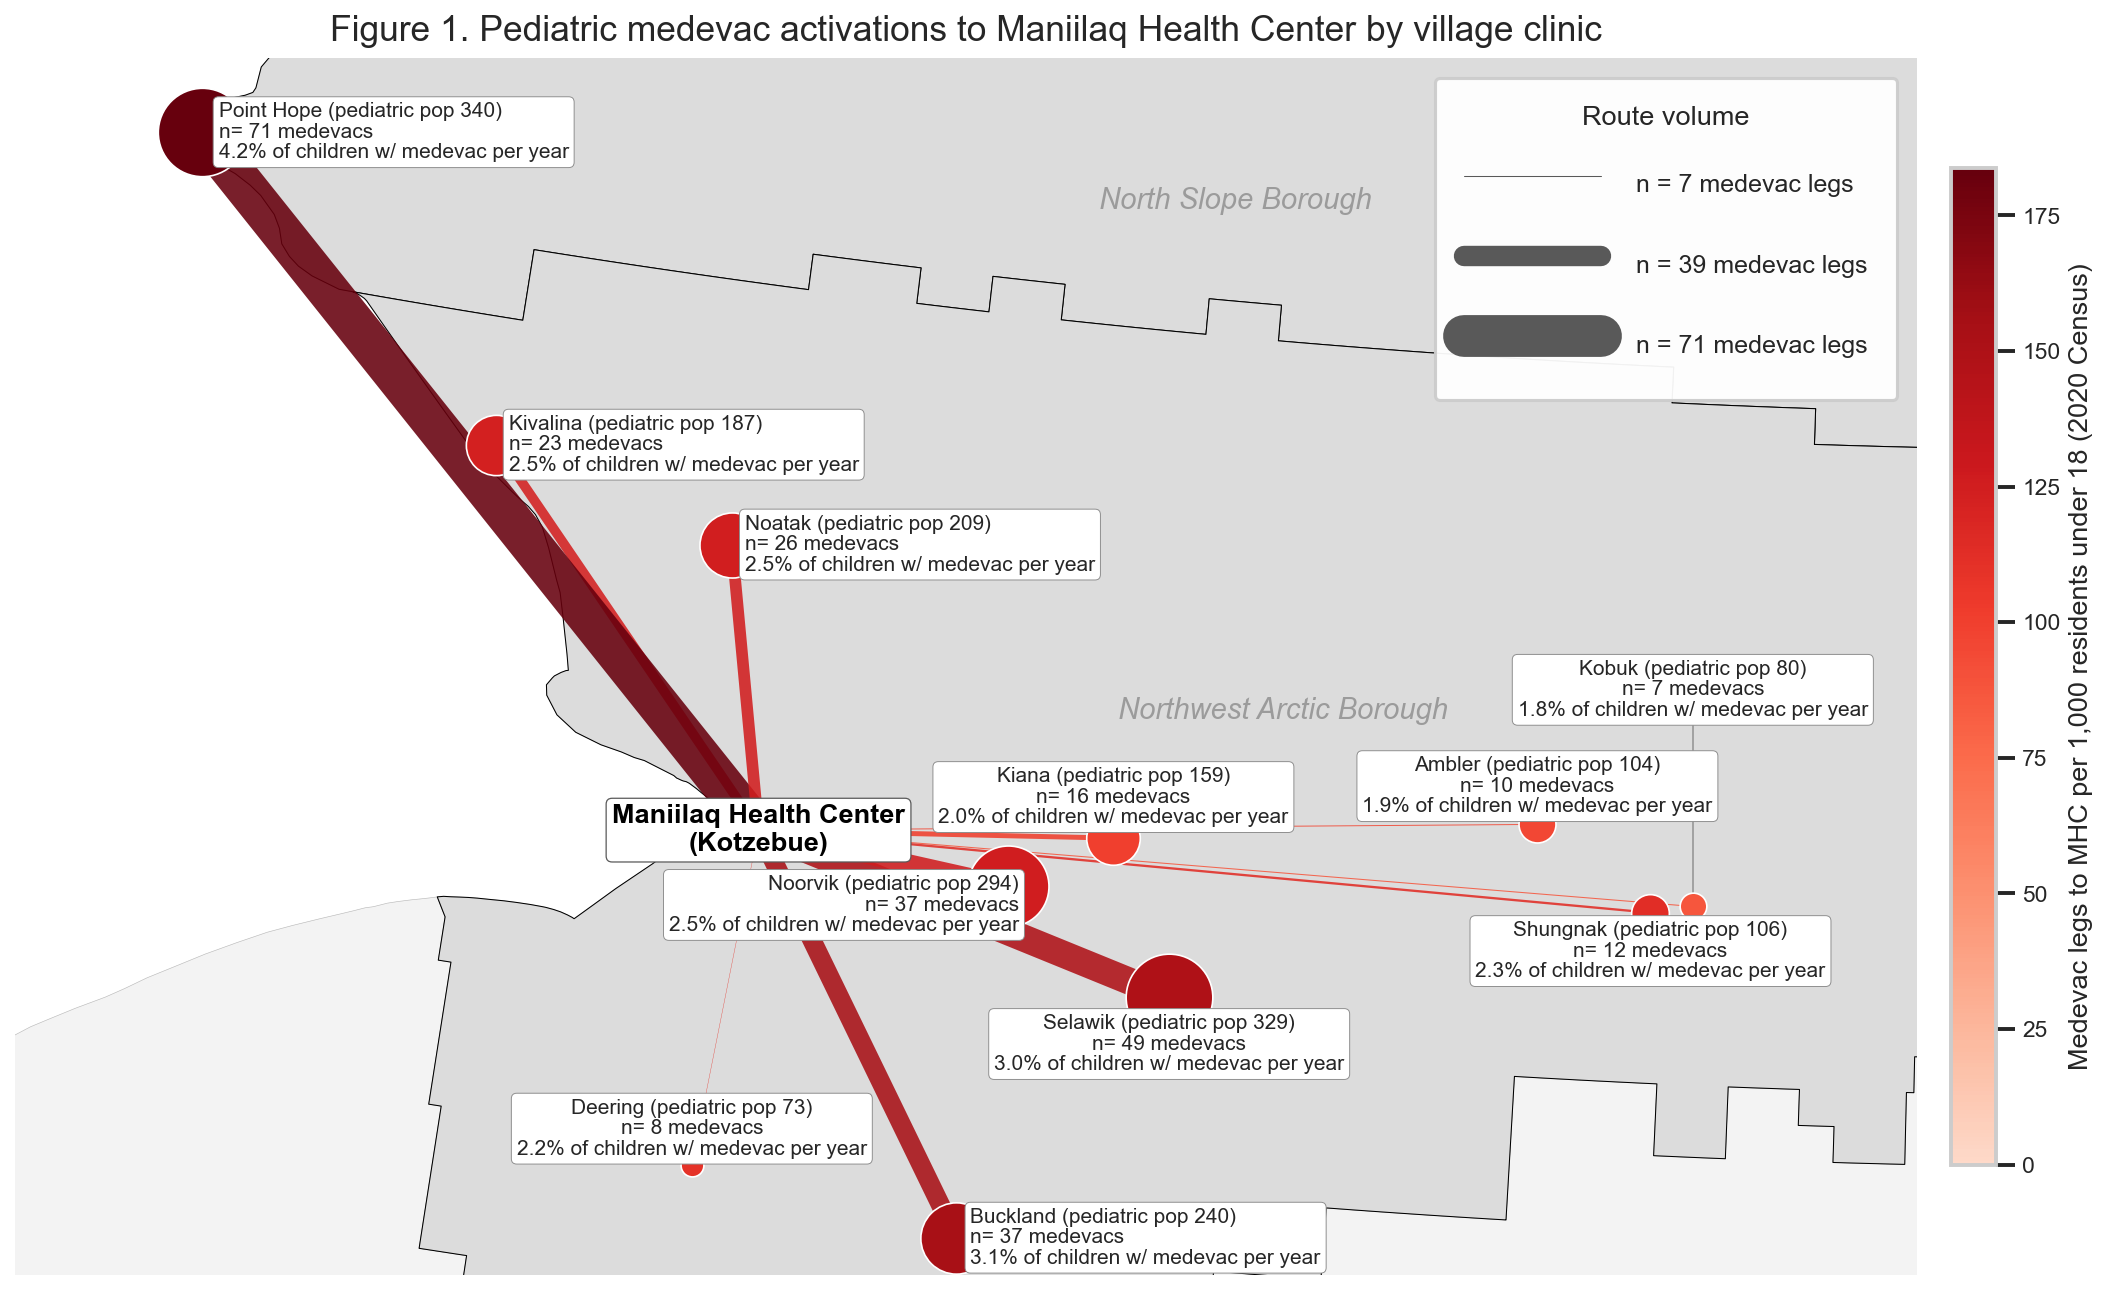
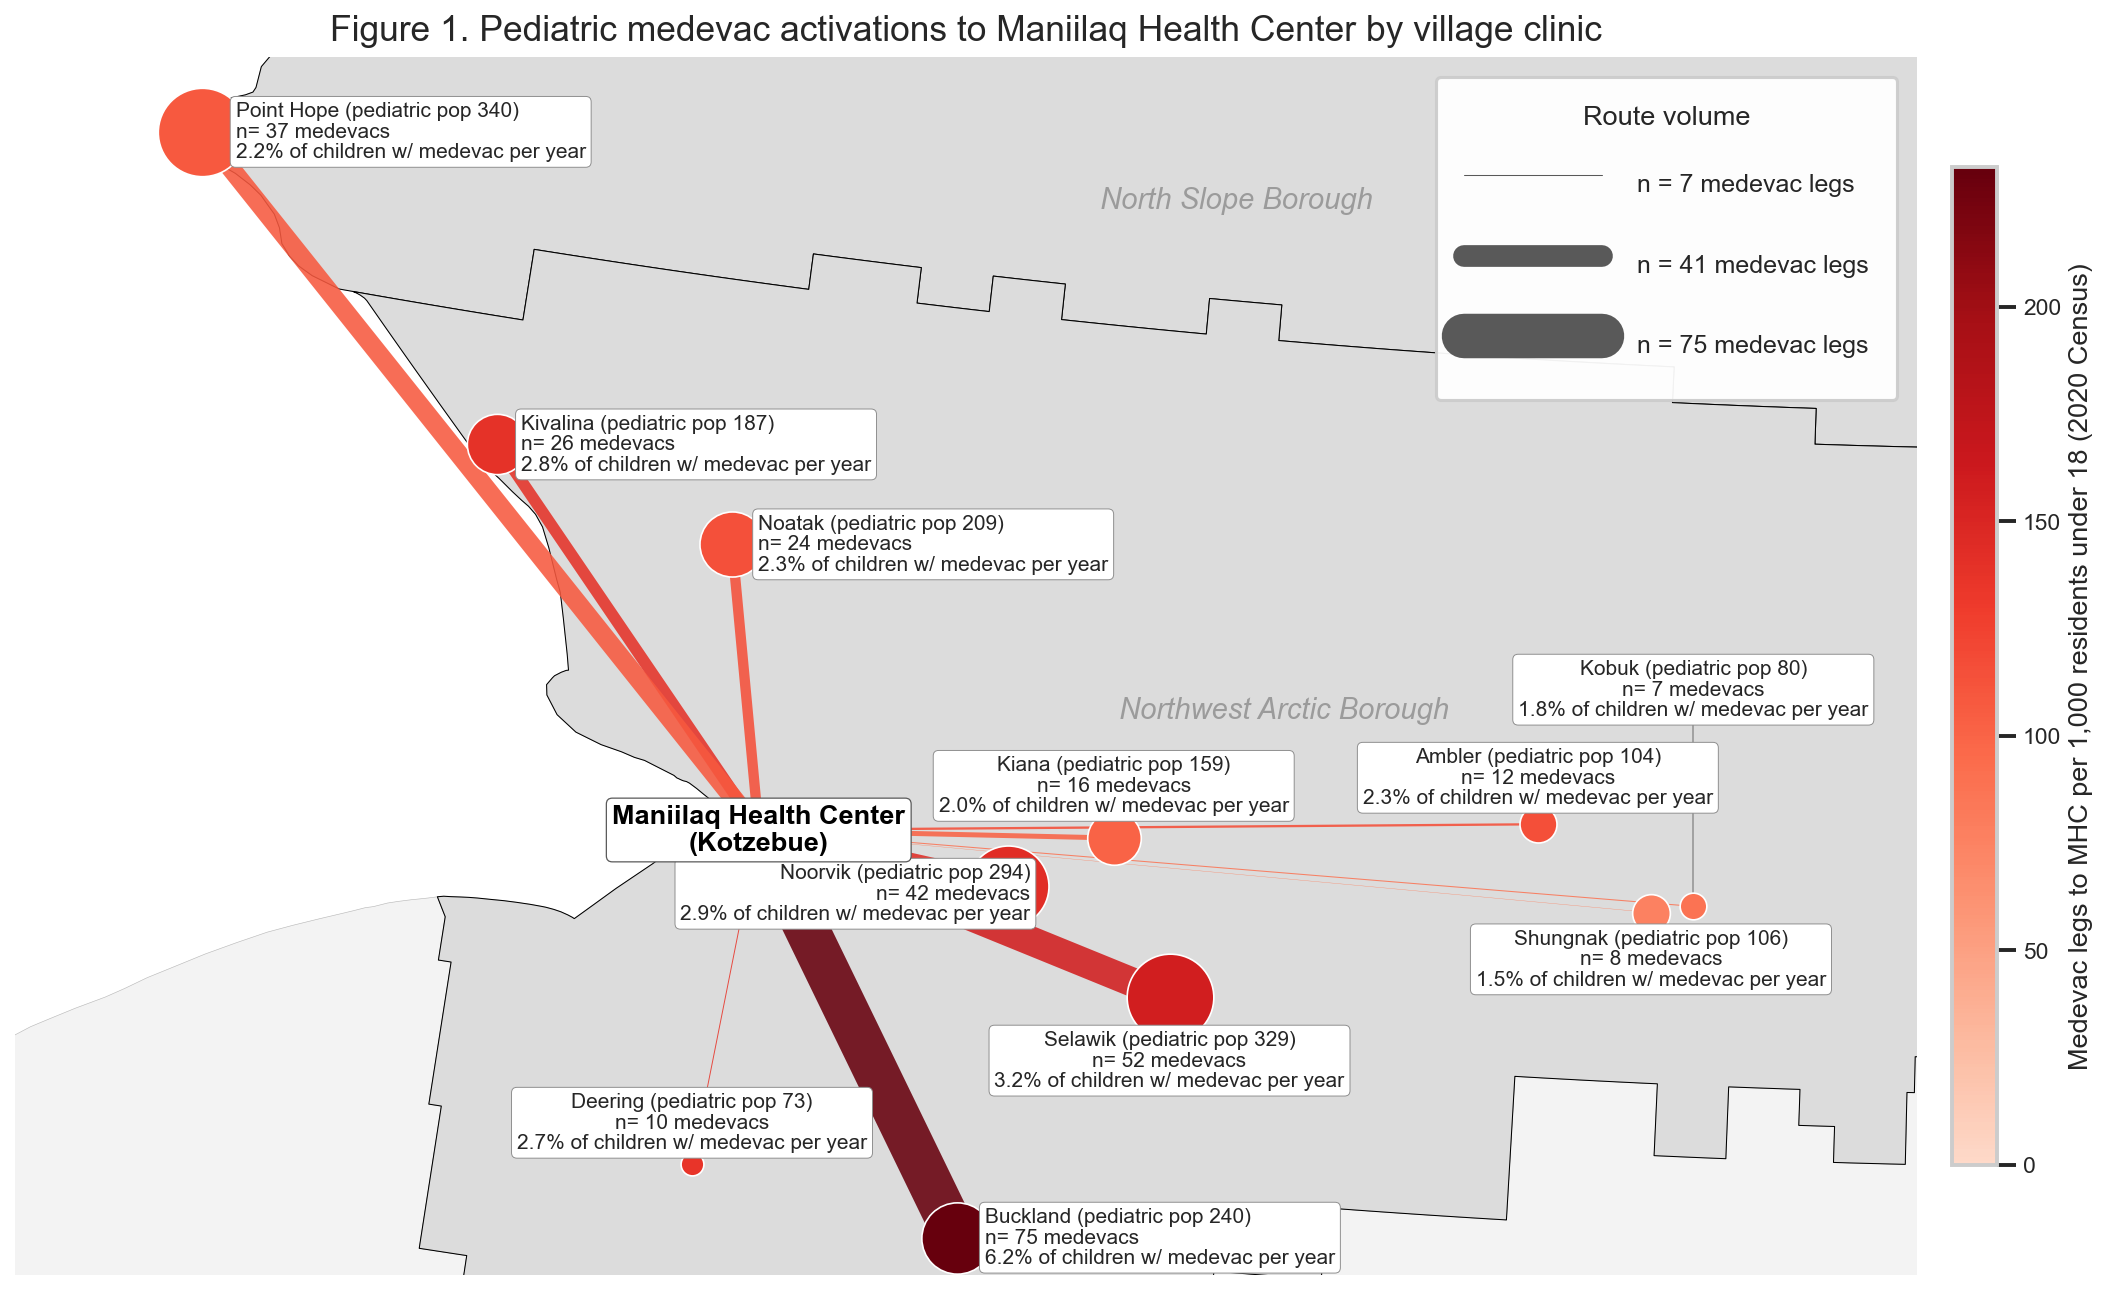
Use full 309-journey cohort for temporal figures and refine chief complaint reporting.
Report chief complaints only when overall n ≥ 10, reverse village blues so highest-volume communities are darkest, and regenerate figures with updated manuscript captions.

diff --git a/analysis/medevac_summaries.py b/analysis/medevac_summaries.py
@@ -1180,16 +1180,15 @@ def build_table2_patient_characteristics_by_age(df: pd.DataFrame) -> pd.DataFram
     bucket_totals = {bk: int((cc["age_bucket"] == bk).sum()) for _, bk in AGE_GROUPS}
     n_overall_cc = len(cc)
 
-    top20 = (
+    reported_cc = (
         valid_cc.groupby("cc_definitive_custom_grouping", dropna=False)
         .size()
         .sort_values(ascending=False)
-        .head(10)
-        .index.tolist()
     )
+    reported_cc = reported_cc[reported_cc >= 10].index.tolist()
 
     cc_rows = [["Chief Complaints (CEDIS):"] + [""] * (len(col_order) - 1)]
-    for grp in top20:
+    for grp in reported_cc:
         n_ov = int((valid_cc["cc_definitive_custom_grouping"] == grp).sum())
         row = [f"  {grp}", fmt_pct_n(n_ov, n_overall_cc)]
         for _, bk in AGE_GROUPS:
@@ -2756,8 +2755,16 @@ def _chief_complaint_per_journey(df: pd.DataFrame) -> pd.DataFrame:
     return base
 
 
-def _top10_chief_complaints(cc_df: pd.DataFrame, denominator_journeys: int) -> pd.DataFrame:
-    """Top 10 CEDIS complaints; output rank, Chief Complaint, n(%)."""
+def _top10_chief_complaints(
+    cc_df: pd.DataFrame,
+    denominator_journeys: int,
+    min_overall: int | None = None,
+) -> pd.DataFrame:
+    """CEDIS complaints; output rank, Chief Complaint, n(%).
+
+    If min_overall is set, include all complaints with n >= min_overall (sorted by n).
+    Otherwise return the top 10 by frequency.
+    """
     valid = cc_df[
         cc_df["cedis_code"].notna()
         & (cc_df["cedis_code"].astype(str).str.strip() != "")
@@ -2794,8 +2801,11 @@ def _top10_chief_complaints(cc_df: pd.DataFrame, denominator_journeys: int) -> p
         .size()
         .reset_index(name="n")
         .sort_values(["n", "cedis_code", "cedis_complaint"], ascending=[False, True, True])
-        .head(10)
     )
+    if min_overall is not None:
+        top = top[top["n"] >= min_overall]
+    else:
+        top = top.head(10)
     rows = []
     for i, r in enumerate(top.itertuples(index=False), 1):
         n = int(r.n)
@@ -2911,16 +2921,17 @@ def build_table3_route_comparison(df_all: pd.DataFrame) -> pd.DataFrame:
     cc_j = cc_j.merge(j[["journey_id","_grp"]], on="journey_id", how="inner")
     valid_cc = cc_j[cc_j["cc_definitive_custom_grouping"] != "Undefined"]
 
-    top10_cc = (
+    reported_cc = (
         valid_cc.groupby("cc_definitive_custom_grouping")
-        .size().sort_values(ascending=False).head(10).index.tolist()
+        .size().sort_values(ascending=False)
     )
+    reported_cc = reported_cc[reported_cc >= 10].index.tolist()
 
-    # Chi-square across all top-10 categories
+    # Chi-square across reported categories (≥10 overall)
     ct_cc = pd.DataFrame(
         {g: valid_cc[valid_cc["_grp"] == g]["cc_definitive_custom_grouping"].value_counts()
          for g in groups_order}
-    ).fillna(0).reindex(top10_cc, fill_value=0)
+    ).fillna(0).reindex(reported_cc, fill_value=0)
     try:
         _, p_cc, *_ = _stats.chi2_contingency(ct_cc.values)
         p_cc_str = f"{p_cc:.3f}" if p_cc >= 0.001 else "<0.001"
@@ -2928,7 +2939,7 @@ def build_table3_route_comparison(df_all: pd.DataFrame) -> pd.DataFrame:
         p_cc_str = "—"
 
     rows.append(["Chief Complaint (CEDIS), n (%)"] + [""] * len(groups_order) + [p_cc_str])
-    for cc_grp in top10_cc:
+    for cc_grp in reported_cc:
         cells = [fmt_pct_n(
             int((valid_cc[valid_cc["_grp"] == g]["cc_definitive_custom_grouping"] == cc_grp).sum()),
             ns[g]
@@ -2942,12 +2953,12 @@ def build_table3_route_comparison(df_all: pd.DataFrame) -> pd.DataFrame:
 
 def build_table3_cedis_chief_complaints(
     df: pd.DataFrame,
-    top_n: int = 10,
+    min_overall: int = 10,
 ) -> pd.DataFrame:
     """
-    Table 3: Top-N CEDIS chief complaints by age group (wide format).
+    Table 3: CEDIS chief complaints by age group (wide format).
 
-    Rows = top_n complaints ranked by overall frequency.
+    Rows = complaints with overall frequency ≥ min_overall, sorted high → low.
     Columns = Chief Complaint | Overall | <1 year | 1 to <5 years | 5–12 years | 13–18 years
     Each cell = n (%) where % is out of that column's journey total.
 
@@ -2969,14 +2980,13 @@ def build_table3_cedis_chief_complaints(
         & (cc["cedis_code"].astype(str).str.strip() != "")
     ].copy()
 
-    # Determine top_n complaints by overall frequency
-    top_complaints = (
+    # Complaints with ≥ min_overall journeys overall
+    overall_counts = (
         valid.groupby("cedis_complaint", dropna=False)
         .size()
         .sort_values(ascending=False)
-        .head(top_n)
-        .index.tolist()
     )
+    top_complaints = overall_counts[overall_counts >= min_overall].index.tolist()
 
     def _cell(sub: pd.DataFrame, complaint: str, denom: int) -> str:
         n = int((sub["cedis_complaint"] == complaint).sum())
@@ -3001,9 +3011,9 @@ def build_table3_cedis_chief_complaints(
 
 
 def build_table3_chief_complaints_overall(df: pd.DataFrame) -> pd.DataFrame:
-    """Top 10 village CEDIS chief complaints across village→MHC journeys."""
+    """Village CEDIS chief complaints with ≥10 journeys overall."""
     cc = _chief_complaint_per_journey(df)
-    return _top10_chief_complaints(cc, len(cc))
+    return _top10_chief_complaints(cc, len(cc), min_overall=10)
 
 
 def build_table3_chief_complaints_by_age(
@@ -3752,13 +3762,14 @@ def _temporal_cohort_df(
     df: pd.DataFrame | None = None,
     start_year: int = 2020,
     end_year: int = 2024,
-    primary_only: bool = True,
+    primary_only: bool = False,
 ) -> pd.DataFrame:
     """
     Journeys for Paper 1 temporal volume figures.
 
-    Defaults to the prepared primary cohort (village → MHC, no secondary transfer)
-    in the study window, using medevac1_dts-derived calendar dates when available.
+    Defaults to all village-originating journeys (n ≈ 309) in the study window,
+    using medevac1_dts-derived calendar dates when available.
+    Set primary_only=True to restrict to route_type Primary (village → MHC) only.
     """
     if df is None or (isinstance(df, pd.DataFrame) and df.empty):
         d = load_journeys_primary_prepared()
@@ -3823,7 +3834,7 @@ def plot_fig1a_monthly_by_village(
 ) -> plt.Figure:
     """Figure 1A: Monthly medevac volume, stacked by village (2020–2024)."""
     title = f"Monthly Pediatric Medevac Volume ({start_year}–{end_year}); n = 0"
-    d = _temporal_cohort_df(df, start_year, end_year, primary_only=True)
+    d = _temporal_cohort_df(df, start_year, end_year)
     d = d[d["_village"].astype(str).str.strip().ne("")].copy()
     if d.empty:
         return _empty_temporal_figure(title.replace("n = 0", "n = 0"))
@@ -3877,7 +3888,7 @@ def plot_fig1b_monthly_by_age(
 ) -> plt.Figure:
     """Figure 1B: Monthly medevac volume, stacked by age group (2020–2024)."""
     title = f"Monthly Pediatric Medevac Volume ({start_year}–{end_year}); n = 0"
-    d = _temporal_cohort_df(df, start_year, end_year, primary_only=True)
+    d = _temporal_cohort_df(df, start_year, end_year)
     d = d[d["_age_grp"].notna()].copy()
     if d.empty:
         return _empty_temporal_figure(title.replace("n = 0", "n = 0"))
@@ -3925,7 +3936,7 @@ def plot_fig2a_annual_by_village(
 ) -> plt.Figure:
     """Figure 2A: Annual medevac volume, stacked by village (2020–2024)."""
     title = f"Annual Pediatric Medevac Volume ({start_year}–{end_year}); n = 0"
-    d = _temporal_cohort_df(df, start_year, end_year, primary_only=True)
+    d = _temporal_cohort_df(df, start_year, end_year)
     d = d[d["_village"].astype(str).str.strip().ne("")].copy()
     if d.empty:
         return _empty_temporal_figure(title.replace("n = 0", "n = 0"))
@@ -3979,7 +3990,7 @@ def plot_fig2b_annual_by_age(
 ) -> plt.Figure:
     """Figure 2B: Annual medevac volume, stacked by age group (2020–2024)."""
     title = f"Annual Pediatric Medevac Volume ({start_year}–{end_year}); n = 0"
-    d = _temporal_cohort_df(df, start_year, end_year, primary_only=True)
+    d = _temporal_cohort_df(df, start_year, end_year)
     d = d[d["_age_grp"].notna()].copy()
     if d.empty:
         return _empty_temporal_figure(title.replace("n = 0", "n = 0"))
@@ -4131,12 +4142,13 @@ def plot_fig4_sankey_transport_routes(df_all: pd.DataFrame) -> plt.Figure:
     # ── Colour palettes (village blues → MHC green → tertiary warm) ───────────
     blues = cm.get_cmap("Blues")
     nv = len(villages)
+    # Villages sorted high→low volume: darkest blue (Buckland) → lightest (Kobuk)
     vcolor: dict[str, str] = {
         v: mcolors.to_hex(
             blues(
                 _ROUTE_VILLAGE_CMAP_LO
                 + (_ROUTE_VILLAGE_CMAP_HI - _ROUTE_VILLAGE_CMAP_LO)
-                * i
+                * (nv - 1 - i)
                 / max(nv - 1, 1)
             )
         )
